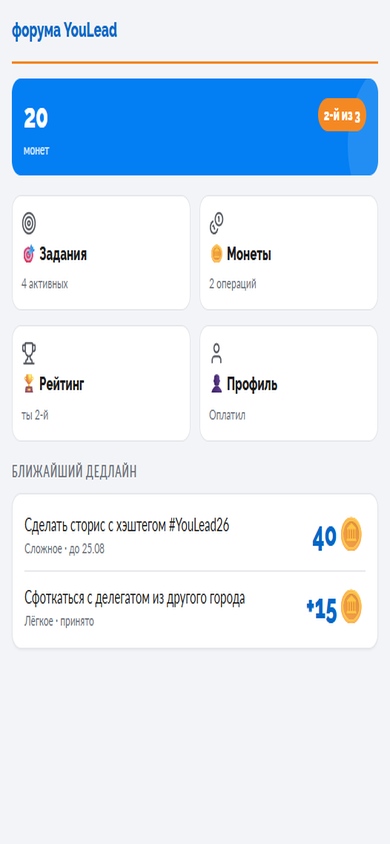
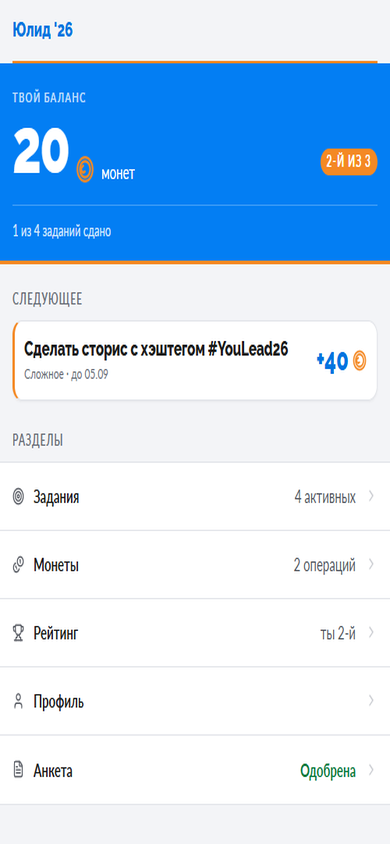
fix(tools): превью пресетов ждут данные хаба, добавлено превью «РилТолк»
После редизайна 23.1 хаб рисует `.plate`, а не `.hero` — генератор превью висел на
ожидании и падал по таймауту. Теперь ждём `.plate-facts` (появляется только после ответа
API хаба) плюс запас на countUp баланса — иначе снимок ловил плиту с нулём до загрузки.
Превью bluebook/youlead пересняты на актуальном дизайне плиты, добавлено realtalk.

diff --git a/tools/make_theme_previews.py b/tools/make_theme_previews.py
@@ -69,8 +69,8 @@ def _shoot(driver, out_path: Path) -> None:
     driver.get(url)
     driver.execute_script(f"localStorage.setItem('{ONBOARDING_KEY}', '1');")
     driver.get(f"{url}#/hub")
-    WebDriverWait(driver, 10).until(EC.presence_of_element_located((By.CLASS_NAME, "hero")))
-    time.sleep(0.3)  # докрутка счётчика монет / шрифты — небольшой запас после появления .hero
+    WebDriverWait(driver, 10).until(EC.presence_of_element_located((By.CLASS_NAME, "plate-facts")))
+    time.sleep(1.2)  # докрутка счётчика монет (countUp) / шрифты — запас после прихода данных хаба
     save_screenshot(driver, out_path, WINDOW_SIZE)
 
 
